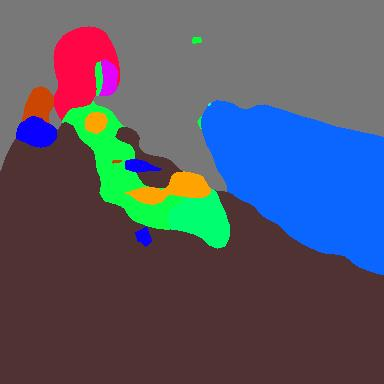
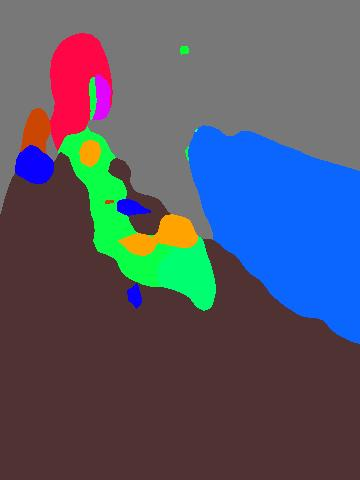
ver 2

diff --git a/model.py b/model.py
@@ -8,7 +8,7 @@ class FCN8s(Network):
         self.input_size = input_size
     
         self.x = tf.placeholder(dtype=tf.float32, shape=[None, None, 3])
-        self.img_tf = preprocess(self.x, self.input_size, 'fcn-8s')
+        self.img_tf, self.shape = preprocess(self.x, self.input_size, 'fcn-8s')
         
         super().__init__({'data': self.img_tf}, num_classes, is_training)
 
@@ -79,8 +79,9 @@ class FCN8s(Network):
              .crop(31, name='score'))
 
         score = self.layers['score']
+        score = tf.image.resize_bilinear(score, size=self.shape[0:2], align_corners=True)
         score = tf.argmax(score, axis=3)
-        self.pred = decode_labels(score, self.input_size, num_classes)
+        self.pred = decode_labels(score, self.shape[0:2], num_classes)
 
     def read_input(self, img_path):
         self.img, self.img_name = load_img(img_path)

diff --git a/tools.py b/tools.py
@@ -63,10 +63,11 @@ def preprocess(img, input_size, model):
     img -= IMG_MEAN
 
     if model == 'fcn-8s':
+        shape = tf.shape(img)
         img = tf.expand_dims(img, dim=0)
         output = tf.image.resize_bilinear(img, input_size)
 
-        return output
+        return output, shape
     elif model == 'pspnet50':
         shape = tf.shape(img)
         h, w = (tf.maximum(input_size[0], shape[0]), tf.maximum(input_size[1], shape[1]))

diff --git a/inference.py b/inference.py
@@ -10,7 +10,6 @@ import numpy as np
 from scipy import misc
 
 from model import FCN8s, PSPNet50
-from tools import *
 
 save_dir = './output/'
 model_path = {'pspnet': './model/pspnet50.npy',
